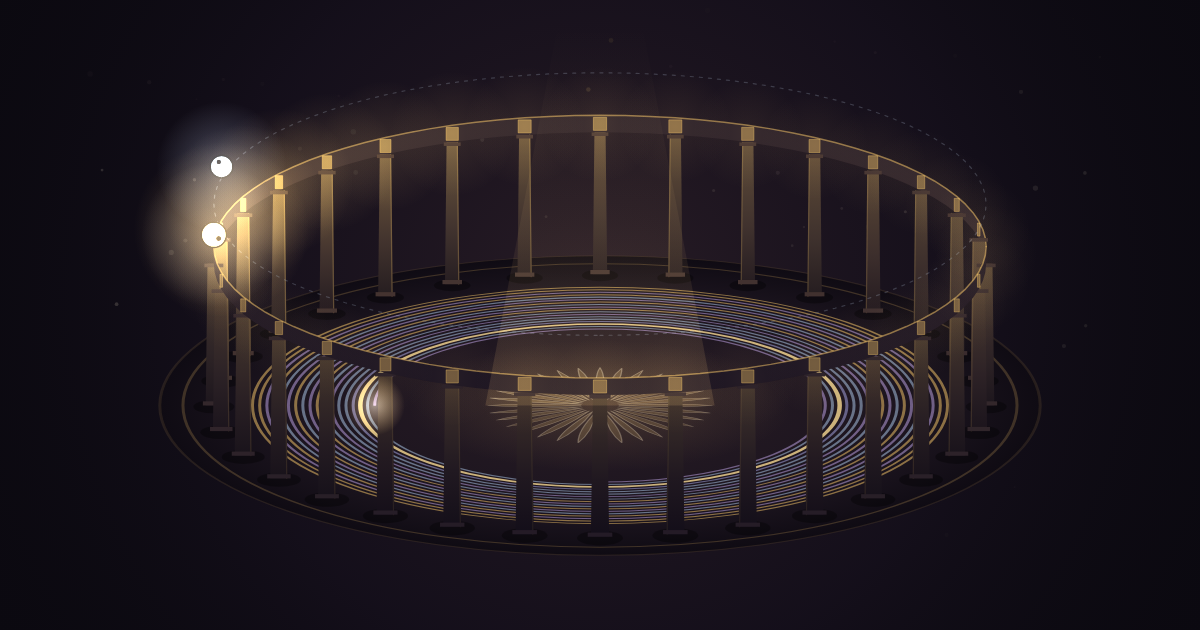
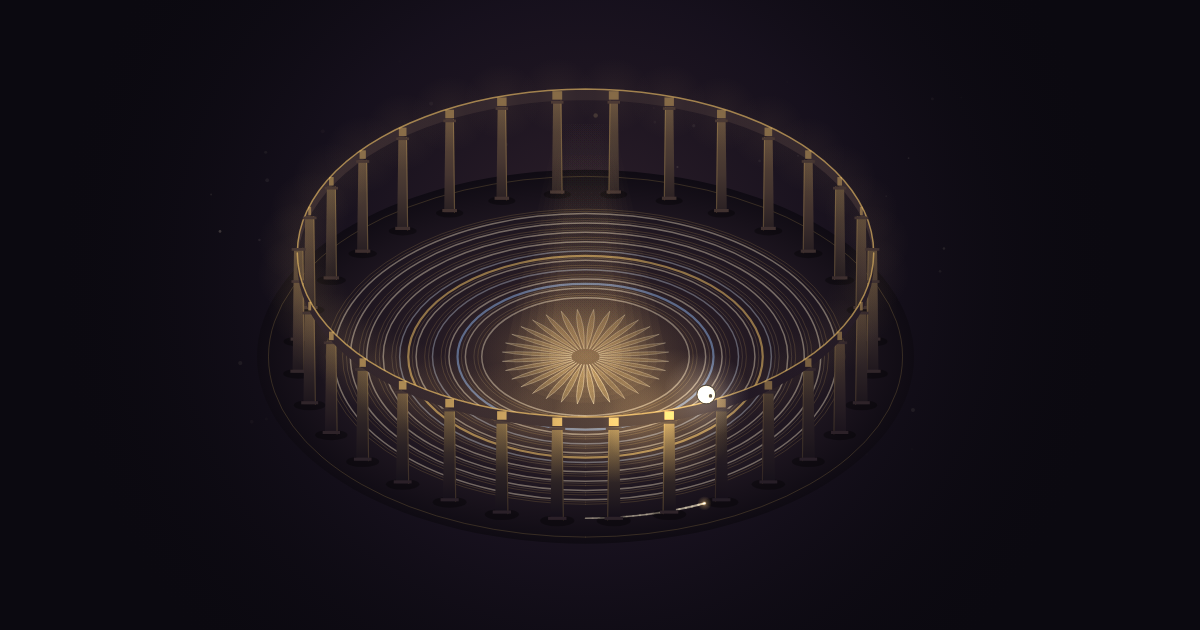
docs(goldberg): the room as it now is, and a share card from the da capo
GOLDBERG.md's room: the trios on the floor, the view rising as it is written,
the Adagio's turn, the gate, the canon's answer in the lamps, the palette, and
what the craft pass took out. The share card is the da capo at 4300 s: the
whole written floor from above, the rose open again, the ball at the front.

diff --git a/apps/rube/src/shows/versions/goldberg-variations/sonnet55.show.ts b/apps/rube/src/shows/versions/goldberg-variations/sonnet55.show.ts
@@ -4,7 +4,7 @@ export default defineShow({
   title: 'Goldberg Variations',
   label: 'Sonnet 5.5',
   about: 'Bach’s Goldberg Variations, all thirty-two of them in order and round again: a lap of a lit colonnade to each. Víkingur Ólafsson, from Deutsche Grammophon’s own uploads.',
-  still: 2410,
+  still: 4300,
   async load() {
     return (await import('./rotunda')).performance
   },

diff --git a/apps/rube/src/shows/versions/goldberg-variations/GOLDBERG.md b/apps/rube/src/shows/versions/goldberg-variations/GOLDBERG.md
@@ -52,33 +52,49 @@ Licences and every video: `apps/rube/src/shows/versions/goldberg-variations/ATTR
 
 ## The room
 
-A round colonnade of thirty-two columns, seen from a little above. A variation is thirty-two bars over the same ground
-bass, so one column is one bar and the ball goes once round the rail on the columns' tops in each variation:
+A round colonnade of thirty-two columns, seen from above. A variation is thirty-two bars over the same ground bass, so
+one column is one bar and the ball goes once round the rail on the columns' tops in each variation:
 
 - **The lap is the recording's.** The ball's pace is a monotone cubic through "track k starts, k laps done", so it is
   at the gate at the top of every variation, goes round slower the longer the variation is (the Adagio's lap is the
   slowest, the fourth variation's the fastest), and never starts or stops between. `check:shows` holds all of that.
+  The columns stand half a bar round from the gate, so the gate, in front, is an opening onto the rose.
 - **The room is what has been played.** The ball lights the lamp of every column it passes and they stay lit. The Aria
   opens a rose of thirty-two petals in the floor, one to a bar, each opening as the ball passes its column; each
-  variation engraves a ring round it, tinted for what it was, and the da capo closes the outermost ring round all of
-  it. The minor variations (15, 21, 25) go to a cool light.
-- **Each kind of variation is one thing:** a canon has its second voice one column behind on a rail as much higher
-  as its interval, in contrary motion (the other way round) in 12 and 15; two hands (the variations for two manuals)
-  are a second ball that comes out of the first and braids round it, one again at the end of the lap; the overture (16)
-  opens a shaft of light from above for the second half; the Adagio (25) turns the ball to a black pearl and the
-  camera comes in close; 27 is bassless, so the lamps go dim; the quodlibet (30) has five small coloured followers, the
-  tunes it quotes.
+  variation cuts a ring round it, bright at the ball's head and settling as it goes on. The rings go in from the
+  outside in Bach's ten groups of three, with dark between the groups: the canon that closes each group (and the
+  quodlibet, and the da capo's closing ring round all of it) is the floor's ivory spine, the overture's and the
+  Adagio's rings its two landmarks, the rest fine gold lines. The minor variations (15, 21, 25) go to a cool light and
+  leave cool rings. The da capo opens the rose again as the Aria did.
+- **The view rises as the floor is written** (`tiltAt`). Low for the Aria, where the colonnade is all there is; a
+  little higher through the first half; lifted by the overture; low and close for the Adagio; highest for the
+  quodlibet and the da capo, looking down on the whole floor; low again as the lamps go out. The frame is fitted to the
+  room at each tilt and leans a little after the lap.
+- **Each kind of variation is one thing:** a canon's second voice, smaller, rides one column behind and as much higher
+  as its interval, the other way round in contrary motion (12 and 15), and lights the lamps again as it passes: each
+  lamp flares twice, the tune and its answer. Two hands (the variations for two manuals) are a second ball that comes
+  out of the first and braids round it, one again at the end of the lap. The overture (16) opens a soft cone of light
+  from above, onto the rose, for the second half. The Adagio (25) turns the ball to a black pearl with a sheen, and the
+  room turns once round it, from rest to rest, so the pearl is held near the front, dark over the lit rose, and the
+  columns go by behind it. 27 is bassless, so the lamps go dim. The quodlibet (30) has five small followers in the
+  lamps' own colours, the tunes it quotes.
+- **One palette.** Ivory and gold, a cool blue for the minor and silver for the second voices; nothing else.
 - **The loop closes in the dark.** The da capo's last minute puts out the lamps, the rings, the rose and the light,
   and the Aria's first lights them again: at 0 s and at 4446.52 s the room is the same, no lamp lit, no petal open,
-  the ball unseen; the camera is where it was; every shimmer runs on a whole number of cycles a period.
+  the ball unseen; the view and the camera are where they were; every shimmer runs on a whole number of cycles a
+  period.
 - **Nothing on the frame.** The title, each variation's name (with Bach's name as its note) and the credits are the
   page's cards (`Performance.titles`, `rotunda/titles.ts`), and there are none across the seam.
 
 ## What was subtracted
 
 No film, no set-piece, no second world. One room, one ball, one job each: the lamps are what has been played, the
-ring is which variation, the ball's lap is the variation's length, the camera breathes and comes in for the Adagio and
-goes out for the credits. No cuts, no strikes, no shake. Nothing but the ball moves quickly.
+ring is which variation, the ball's lap is the variation's length, the view's height is how much has been written, the
+camera breathes and comes in for the Adagio and goes out for the credits. No cuts, no strikes, no shake. Nothing but
+the ball moves quickly. The craft pass took out: thirty evenly spaced rings in four tints (a moiré by the second half),
+the soft pen light floating on the floor, the canon's dashed second rail, the outline round every lamp, a second step
+line, the overture's hard-edged trapezoid, the pearl's bright outline and dot (a reticle), and the quodlibet's five
+saturated hues.
 
 ## The player (`apps/rube/src/shows/youtube.ts`)
 
